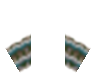
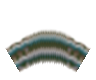
rail done

Changed region(s): [[0.3125, 0.375, 0.6875, 0.85]]

diff --git a/hlrData.py b/hlrData.py
@@ -186,7 +186,6 @@ bgTiles =   {   'forest'        :   pygame.image.load('gfx/hexTypes/hex_forest.p
 
 
 infraIcons =    {   ''          :   None,
-
 					'cross1'	:   pygame.image.load('gfx/infrastructure/crossRail36Path14.png'),
 					'cross2'	:   pygame.image.load('gfx/infrastructure/crossRail36Road14.png'),
 					'cross3'	:   pygame.image.load('gfx/infrastructure/crossRail36Road25.png'),
@@ -194,16 +193,14 @@ infraIcons =    {   ''          :   None,
 					'rail26'    :   pygame.image.load('gfx/infrastructure/rail26.png'),
 					'rail13'    :   pygame.image.load('gfx/infrastructure/rail13.png'),
 					'rail35'    :   pygame.image.load('gfx/infrastructure/rail35.png'),
-
 					'rail46'    :   pygame.image.load('gfx/infrastructure/rail46.png'),
 					'rail15'    :   pygame.image.load('gfx/infrastructure/rail15.png'),
 					'rail24'    :   pygame.image.load('gfx/infrastructure/rail24.png'),
-
-
 					'rail36'    :   pygame.image.load('gfx/infrastructure/rail36.png'),
 					'rail14'    :   pygame.image.load('gfx/infrastructure/rail14.png'),
 					'rail25'    :   pygame.image.load('gfx/infrastructure/rail25.png'),
 					'rail346'   :   pygame.image.load('gfx/infrastructure/rail346.png'),
+					'rail356'   :   pygame.image.load('gfx/infrastructure/rail356.png'),
 					'road13'    :   pygame.image.load('gfx/infrastructure/road13.png'),
 					'road14'    :   pygame.image.load('gfx/infrastructure/road14.png'),
 					'road15'    :   pygame.image.load('gfx/infrastructure/road15.png'),
